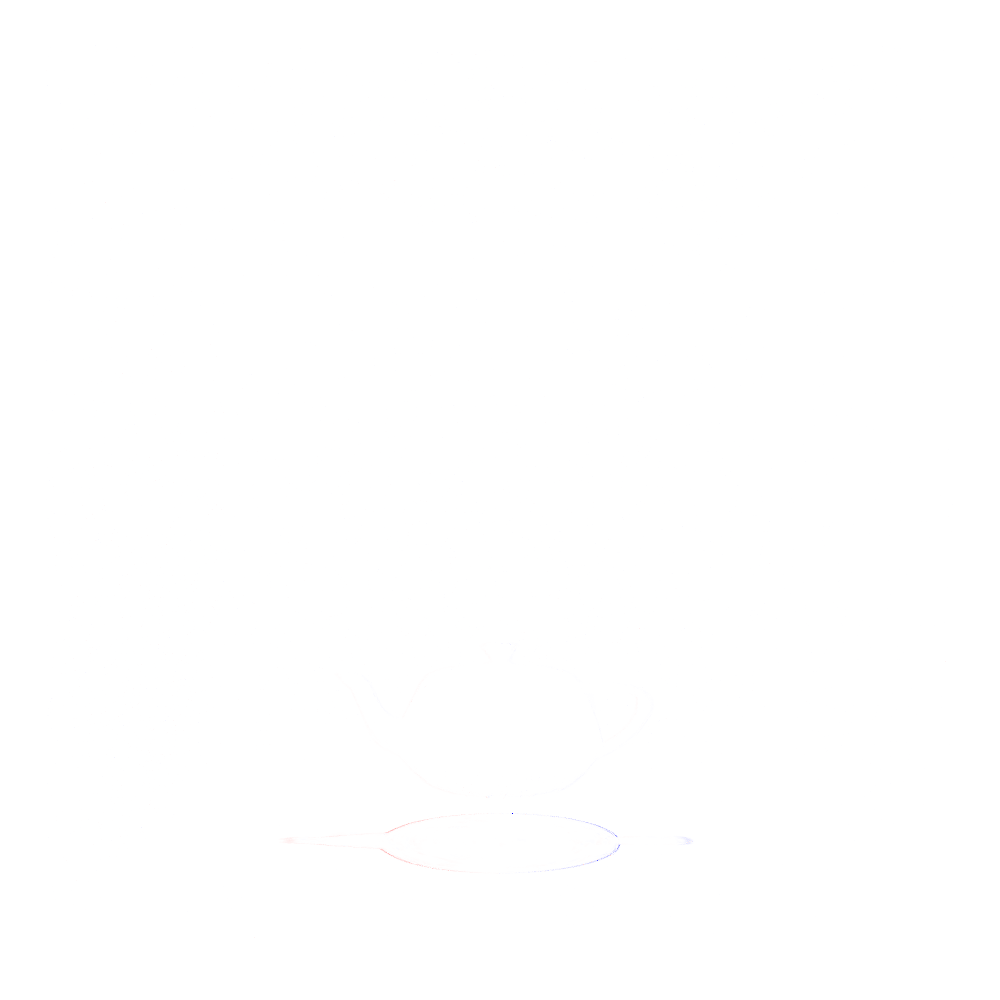
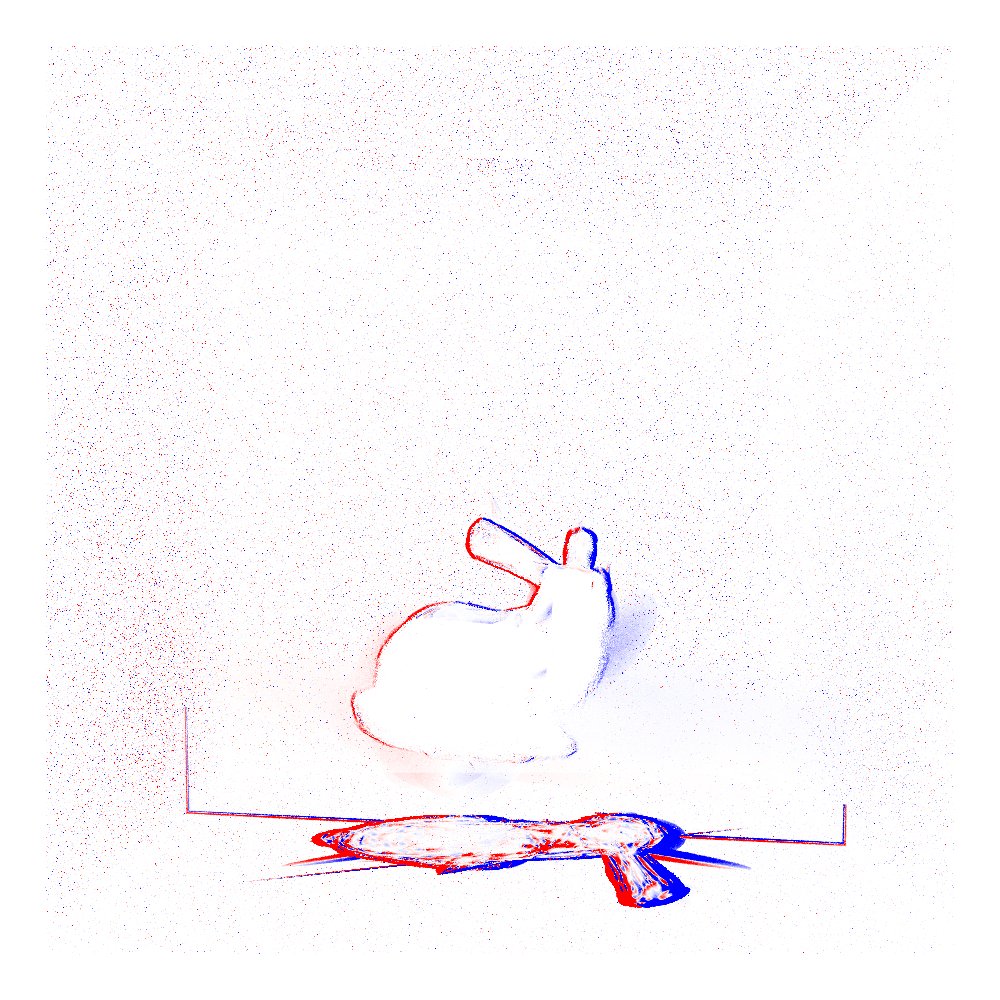
replaced back to gaussian surfels

diff --git a/Pale/Renderer/Kernels/KernelHelpers.h b/Pale/Renderer/Kernels/KernelHelpers.h
@@ -363,75 +363,20 @@ namespace Pale {
         outPdf = max(0.f, dot(outDir, n)) / M_PIf; // cosθ/π
     }
 
-    SYCL_EXTERNAL static bool intersectNearestSurfel(const Ray &rayObject,
-                                                     const Point &surfel,
-                                                     float tMin,
-                                                     float tMax,
-                                                     float &outTHit) {
-        const float3 tangentU = normalize(surfel.tanU);
-        const float3 tangentV = normalize(surfel.tanV);
-        float3 normalObject = normalize(cross(tangentU, tangentV));
 
-        const float nDotD = dot(rayObject.direction, normalObject);
-        if (abs(nDotD) < 1e-6f) return false;
-
-        const float t = dot(surfel.position - rayObject.origin, normalObject) / nDotD;
-        if (t <= tMin || t >= tMax) return false;
-
-        const float3 hitPoint = rayObject.origin + t * rayObject.direction;
-        const float3 relative = hitPoint - surfel.position;
-
-        const float alpha = dot(relative, tangentU);
-        const float beta = dot(relative, tangentV);
-
-        const float su = fmax(surfel.scale.x(), 1e-8f);
-        const float sv = fmax(surfel.scale.y(), 1e-8f);
-        const float uHat = alpha / su;
-        const float vHat = beta / sv;
-        float exponent = -((uHat * uHat) + (vHat * vHat)) / 2.0f;
-        float G = std::exp(exponent);
-        if (G < 0.75f) return false; // clip to ellipse
-
-        outTHit = t;
-        return true;
-    }
-
-    // shapeParam in [-1, 1]:
-    //   -1 -> Manhattan (p=1, diamond)
-    //    0 -> Mahalanobis-like (p=2, circle/ellipse)
-    //   +1 -> Square-ish (p≈∞; we cap at pMax)
-    SYCL_EXTERNAL static inline float computeNormalizedLpRadius(
-        float du, float dv, float sU, float sV,
-        float shapeParam, float pMax = 32.0f) {
-        // Map shapeParam to p in [1, pMax] with p=2 at shapeParam=0
-        // Piecewise linear in p for control:
-        float targetP;
-        // (0,1] -> p in (2,pMax]
-        float t = shapeParam; // t in (0,1]
-        targetP = 2.0f + t * (pMax - 2.0f);
-
-        const float uNorm = sycl::fabs(du) / sycl::fmax(sU, 1e-8f);
-        const float vNorm = sycl::fabs(dv) / sycl::fmax(sV, 1e-8f);
-
-        // Lp "radius" without the final 1/p root; compare sumPow <= 1
-        const float sumPow = sycl::pow(uNorm, targetP) + sycl::pow(vNorm, targetP);
-        return sumPow; // <= 1 means inside footprint
-    }
-
-    SYCL_EXTERNAL static float opacityGaussian(float u, float v, float kSigmas = 2.6f) {
+    SYCL_EXTERNAL static bool opacityGaussian(float u, float v, float* outOpacity,float kSigmas = 2.6f) {
         const float r2 = u * u + v * v;
-
         // Optional accel window. Prefer k=3..4. If you keep this, you lose tail mass.
         if (r2 > kSigmas * kSigmas)
-            return 0.0f;
+            return false;
 
-        return sycl::exp(-0.5f * r2);
+        *outOpacity = sycl::exp(-0.5f * r2);
+        return true;
 
     }
 
 
     SYCL_EXTERNAL inline float logit(float x) { return sycl::log(x / (1.0f - x)); }
-
 
 
     SYCL_EXTERNAL static float opacityBeta(float u, float v, const Point& surfel) {
@@ -459,24 +404,6 @@ namespace Pale {
 
         float exponent = 4.0f * std::exp(surfel.beta);
         return sycl::pow(1.0f - r, exponent);
-        /*
-        const float du = dot(surfel.tanU, r);
-        const float dv = dot(surfel.tanV, r);
-
-        const float shapeParam = surfel.position.x() > 0 ? 1.0f : 0.0f;
-        // choose at runtime
-        const float rhoP = computeNormalizedLpRadius(du, dv, sU, sV, surfel.shape, 32.0f);
-
-        if (rhoP >= 1.0f) return false;
-
-        // 5) Area → length Jacobian
-        // Gaussian parametrization
-        //const float alpha_i = sycl::exp(-0.5f * r2);
-        // Beta kernel
-
-        */
-        // 5) Area → length Jacobian
-
     }
 
 
@@ -502,13 +429,12 @@ namespace Pale {
             return false;
 
         outHitLocal = rayObject.origin + tHit * rayObject.direction;
-        const float3 offsetInPlane = outHitLocal - surfel.position;
-
         float2 uv = phiInverse(outHitLocal, surfel);
 
+        if (!opacityGaussian(uv[0], uv[1], &outOpacity))
+            return false;
 
-        outOpacity = opacityGaussian(uv[0], uv[1]);
-        outOpacity = opacityBeta(uv[0], uv[1], surfel);
+        //outOpacity = opacityBeta(uv[0], uv[1], surfel);
 
         outTHit = tHit;
         return true;

diff --git a/Pale/Renderer/Kernels/AdjointKernels.cpp b/Pale/Renderer/Kernels/AdjointKernels.cpp
@@ -157,10 +157,11 @@ namespace Pale {
                                 LocalTerm localTerms[maxSplatEvents];
                                 int validCount = 0;
 
-                                for (int ei = 0; ei < shadowWorldHit.splatEventCount && validCount < maxSplatEvents; ++
-                                     ei) {
+                                for (int ei = 0; ei < shadowWorldHit.splatEventCount && validCount < maxSplatEvents; ++ei) {
                                     const auto splatEvent = shadowWorldHit.splatEvents[ei];
                                     const auto surfel = scene.points[splatEvent.primitiveIndex];
+
+
 
                                     const float3 canonicalNormalW = normalize(cross(surfel.tanU, surfel.tanV));
                                     const int travelSideSign = (dot(canonicalNormalW, -ray.direction) >= 0.0f) ? 1 : -1;
@@ -170,6 +171,9 @@ namespace Pale {
 
                                     const float denom = dot(surfelNormal, segmentVector);
                                     if (fabs(denom) <= epsilon) continue;
+
+                                    auto& transform = scene.transforms[splatEvent.instanceIndex];
+                                    float3 surfelPosition = transformPoint(transform.objectToWorld, surfel.position);
 
                                     const float tParam = dot(surfelNormal, (surfel.position - x)) / denom;
                                     if (tParam <= 0.0f || tParam >= 1.0f) continue;
@@ -190,7 +194,9 @@ namespace Pale {
                                                             su, epsilon);
                                     const float3 dvDc = ((tvDotD / denom) * surfelNormal - surfel.tanV) / sycl::fmax(
                                                             sv, epsilon);
-
+                                    // d alpha / d c  for alpha = exp(-0.5*(u^2+v^2))  ==>  dα = -α*(u du + v dv)
+                                    const float3 dAlphaDc = -alpha * (uv.x() * duDc + uv.y() * dvDc);
+                                    /*
                                     // helpers
                                     auto smoothAbs  = [](float x){ const float e=1e-12f; return sycl::sqrt(x*x + e); };
                                     auto smoothSign = [](float x){ const float e=1e-12f; return x / sycl::sqrt(x*x + e); };
@@ -234,6 +240,7 @@ namespace Pale {
                                     // --- dα/dc = -(α β / g) * ( ∂r/∂u * du/dc + ∂r/∂v * dv/dc )
                                     const float common = -alpha * beta / g;
                                     const float3 dAlphaDc = common * (drdu * duDc + drdv * dvDc);
+                                    */
 
                                     localTerms[validCount++] = LocalTerm{alpha, dAlphaDc};
                                 }
@@ -262,7 +269,7 @@ namespace Pale {
                     }
 
 
-                    if (worldHit.splatEventCount > 0 && instance.geometryType == GeometryType::Mesh && false) {
+                    if (worldHit.splatEventCount > 0 && instance.geometryType == GeometryType::Mesh) {
                         const float3 x = ray.origin;
                         const float3 y = worldHit.hitPositionW;
                         const float3 segmentVector = y - x;
@@ -343,7 +350,7 @@ namespace Pale {
                     }
 
 
-                    if (worldHit.splatEventCount > 0 && instance.geometryType == GeometryType::PointCloud && false) {
+                    if (worldHit.splatEventCount > 0 && instance.geometryType == GeometryType::PointCloud) {
                         for (auto &splatEvent: worldHit.splatEvents) {
                             if (splatEvent.primitiveIndex == UINT32_MAX)
                                 continue;

diff --git a/Pale/main.cpp b/Pale/main.cpp
@@ -138,7 +138,7 @@ int main(int argc, char **argv) {
 
     //transform.setRotationEuler(glm::vec3(0.0f, 0.0f, 165.0f));
     //transform.setScale(glm::vec3(0.5f, 0.5f, 0.5f));
-    //transform.setPosition(glm::vec3(0.005f, 0.0f, 0.2f));
+    //transform.setPosition(glm::vec3(0.005f, 0.0f, 0.0f));
     logSceneSummary(scene, assetManager);
 
     //FInd Sycl Device
@@ -209,7 +209,7 @@ int main(int argc, char **argv) {
         const uint32_t W = adjointSensor.width, H = adjointSensor.height;
         std::filesystem::path filePath = "Output" / pointCloudPath.filename().replace_extension("") / "adjoint_out.png";
         if (Pale::Utils::saveGradientSignPNG(
-            filePath, rgba, W, H, tracer.getSettings().adjointSamplesPerPixel, 1.00)) {
+            filePath, rgba, W, H, tracer.getSettings().adjointSamplesPerPixel, 0.99)) {
             Pale::Log::PA_INFO("Wrote PNG image to: {}", filePath.string());
         };
         Pale::Utils::savePFM(filePath.replace_extension(".pfm"), rgba, W, H); // writes RGB, drops A}

diff --git a/Pale/Renderer/PathTracer.cpp b/Pale/Renderer/PathTracer.cpp
@@ -20,12 +20,12 @@ namespace Pale {
 
         //  cuda/rocm
         m_settings.photonsPerLaunch = 1e6; // 1e6
-        m_settings.maxBounces = 8;
-        m_settings.numGatherPasses = 8;
-        m_settings.numForwardPasses = 8;
+        m_settings.maxBounces = 2;
+        m_settings.numForwardPasses = 2;
+        m_settings.numGatherPasses = 2;
 
-        m_settings.maxAdjointBounces = 8;
-        m_settings.adjointSamplesPerPixel = 8;
+        m_settings.maxAdjointBounces = 4;
+        m_settings.adjointSamplesPerPixel = 1;
 
     }
 
@@ -43,7 +43,7 @@ namespace Pale {
         const float Adiff = bp.diffuseSurfaceArea;
         const float N = static_cast<float>(m_settings.photonsPerLaunch);
 
-        const float k = 5.0f;
+        const float k = 48.0f;
         const float r0 = sycl::sqrt((k * Adiff) / (N * M_PIf));
         configurePhotonGrid(sceneAabb, r0);
     }

diff --git a/Pale/Renderer/Kernels/IntersectionKernels.h b/Pale/Renderer/Kernels/IntersectionKernels.h
@@ -450,6 +450,7 @@ namespace Pale {
                     const float tWorld = dot(hitPointWorld - rayWorld.origin, rayWorld.direction);
                     worldHitOut->splatEvents[i].hitWorld = hitPointWorld;
                     worldHitOut->splatEvents[i].t = tWorld;
+                    worldHitOut->splatEvents[i].instanceIndex = instanceIndex;
                 }
                 worldHitOut->splatEventCount = localHit.splatEventCount;
             }

diff --git a/Pale/Renderer/GPUDataStructures.h b/Pale/Renderer/GPUDataStructures.h
@@ -261,6 +261,7 @@ namespace Pale {
         float3 hitWorld = float3(0.0f); // World hit position
         float alpha = 1.0f;
         uint32_t primitiveIndex = UINT32_MAX; // primitiveIndex
+        uint32_t instanceIndex = UINT32_MAX; // instance transform for entire point cloud
     };
 
     struct alignas(16) LocalHit {
